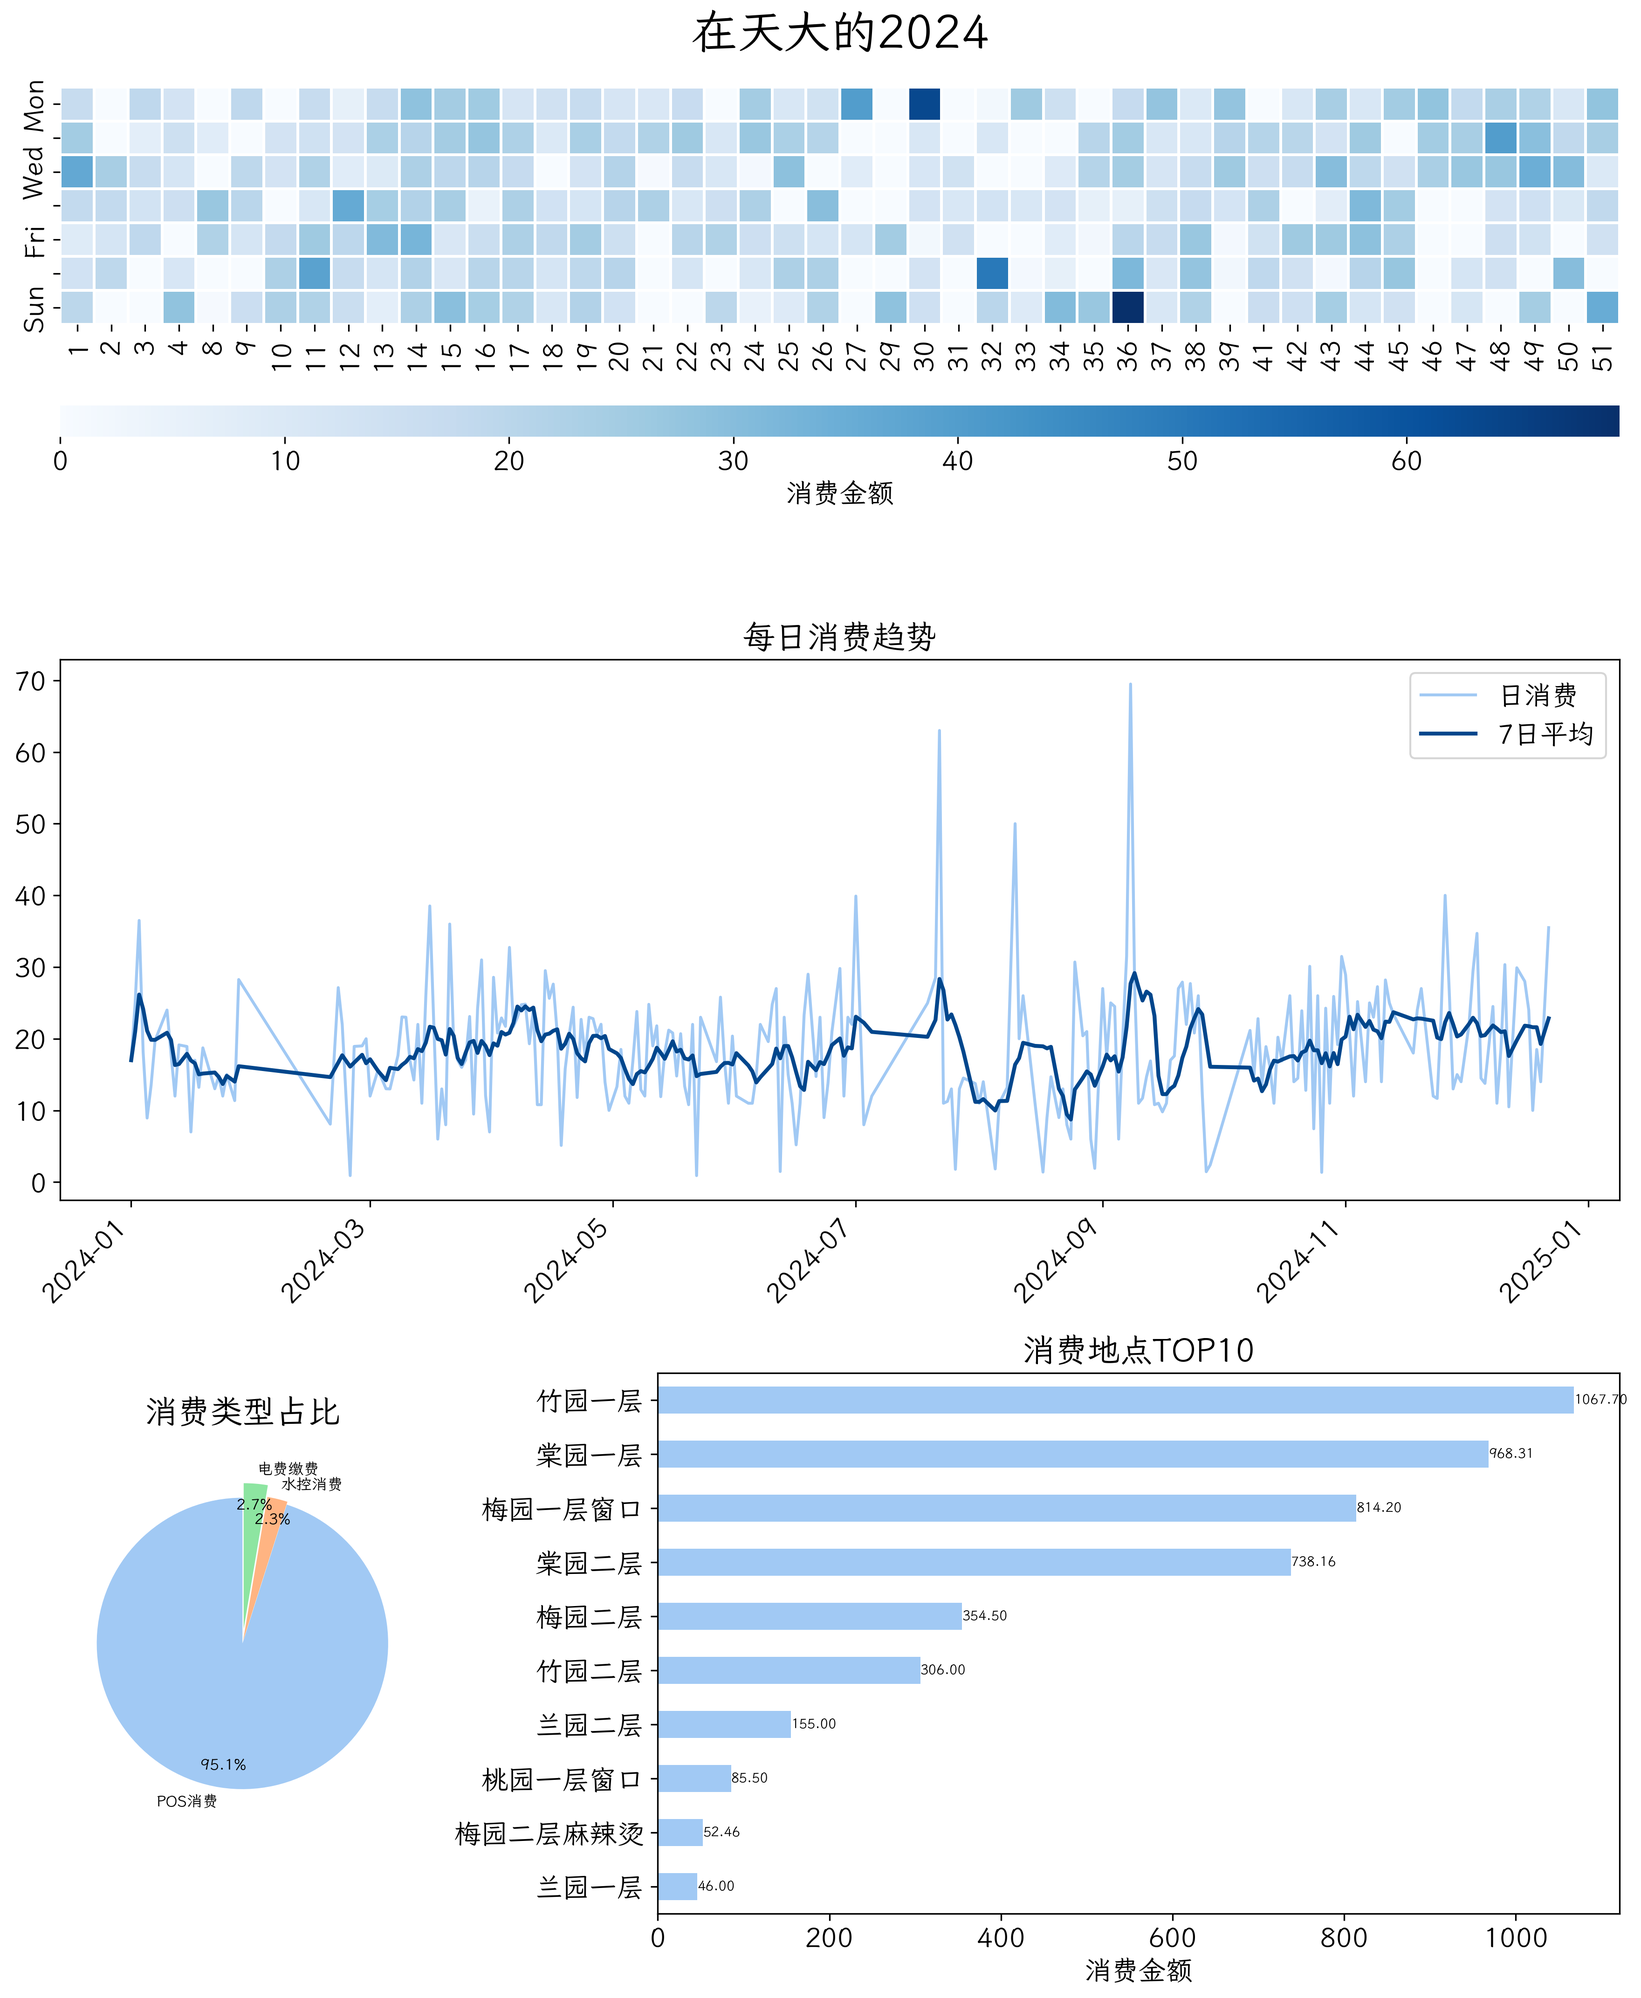
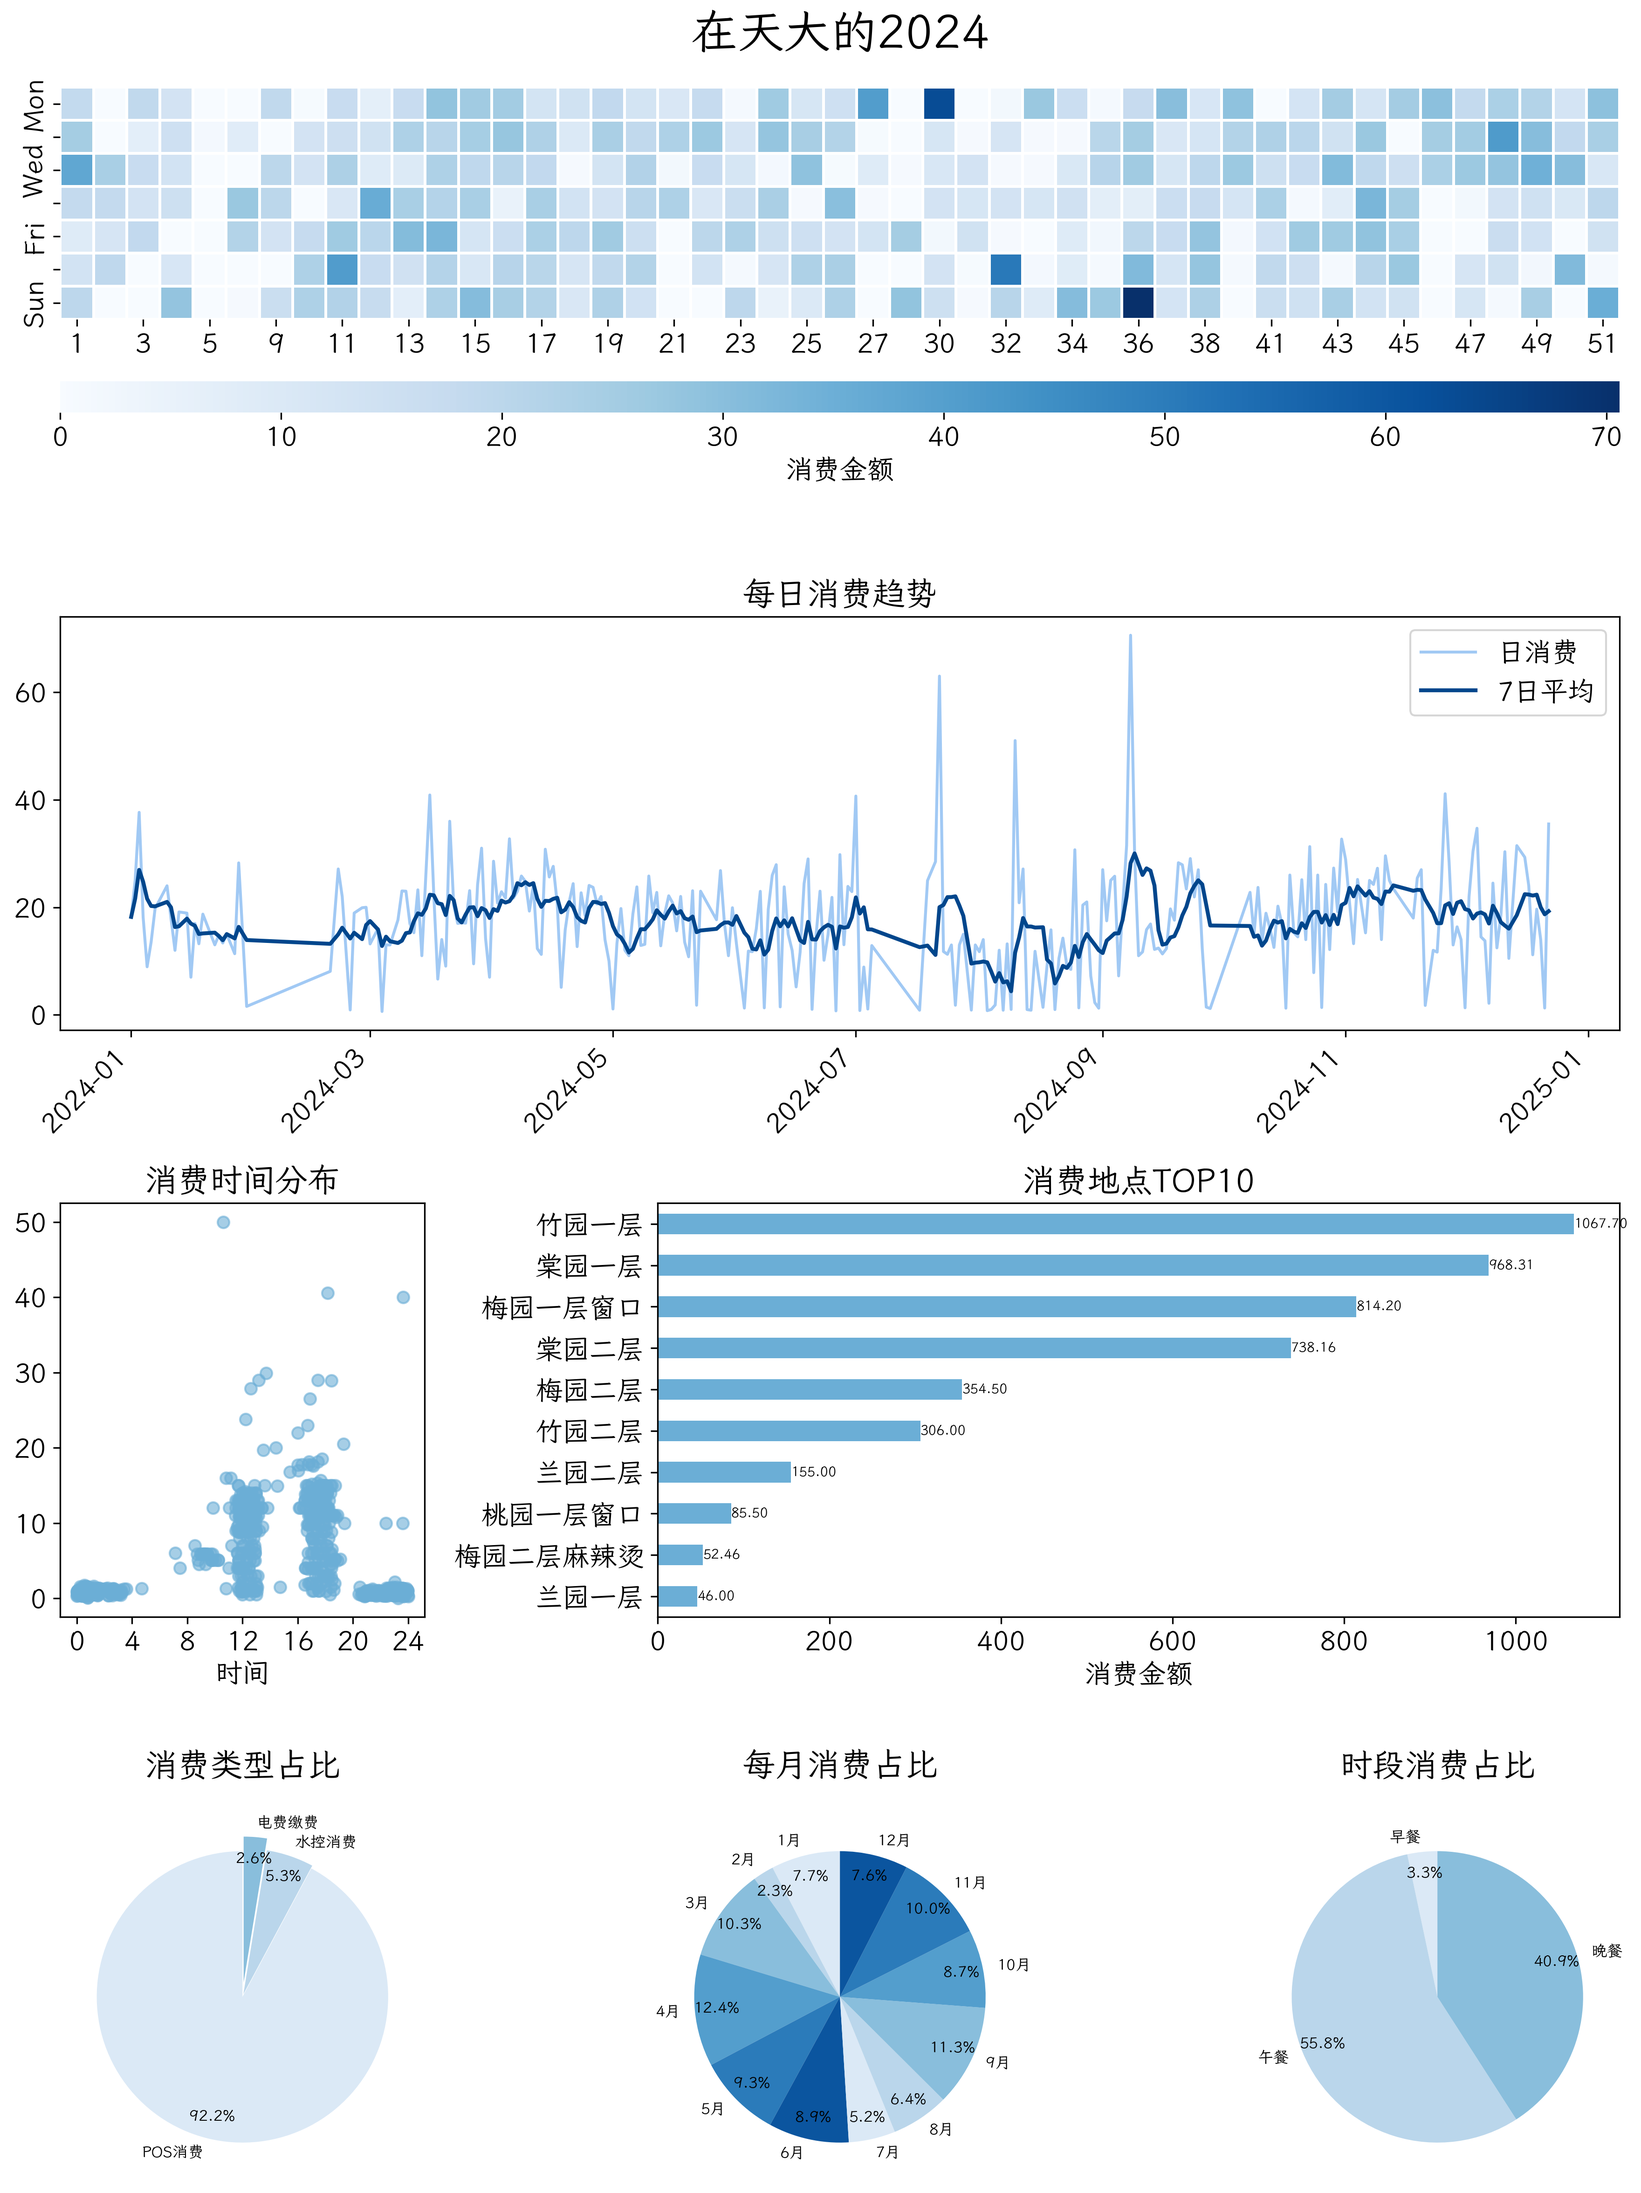
feat: new layout

diff --git a/src/tju_expense/analyze.py b/src/tju_expense/analyze.py
@@ -29,9 +29,9 @@ def analyze(df_file, title, save_to):
     plt.rcParams['axes.unicode_minus'] = False    # 用来正常显示负号
     plt.rcParams['font.size'] = 14  # 设置全局字体大小为14（可以根据需要调整）
 
-    # 创建纵向图表布局 (3行2列的网格，但热力图和趋势图分别占一整行)
-    fig = plt.figure(figsize=(12, 15))
-    gs = plt.GridSpec(3, 3)
+    # 创建纵向图表布局
+    fig = plt.figure(figsize=(12, 16))
+    gs = plt.GridSpec(4, 3, figure=fig) # 必须要加 figure=fig
 
     # 1. 消费热力图 (第一行，跨越所有列)
     ax1 = fig.add_subplot(gs[0, :])
@@ -41,13 +41,25 @@ def analyze(df_file, title, save_to):
     ax2 = fig.add_subplot(gs[1, :])
     plot_daily_trend(df, ax2)
 
-    # 3. 消费类型饼图 (第三行，第一列)
+    # 3. 绘制每日消费散点图 (第三行，第一列)
     ax3 = fig.add_subplot(gs[2, 0])
-    plot_type_pie_chart(df, ax3)
+    plot_daily_scatter(df, ax3)
 
     # 4. 消费地点统计 (第三行，第二列)
     ax4 = fig.add_subplot(gs[2, 1:])
     plot_place_statistics(df, ax4)
+
+    # 5. 消费类型饼图 (第四行，第一列)
+    ax5 = fig.add_subplot(gs[3, 0])
+    plot_type_pie_chart(df, ax5)
+
+    # 6. 每月消费统计饼图 (第四行，第二列)
+    ax6 = fig.add_subplot(gs[3, 1])
+    plot_monthly_pie_chart(df, ax6)
+
+    # 7. 时段消费统计饼图 (第四行，第三列)
+    ax7 = fig.add_subplot(gs[3, 2])
+    plot_time_slot_pie_chart(df, ax7)
 
     plt.tight_layout()
     plt.savefig(save_to, dpi=300, bbox_inches='tight')
@@ -115,6 +127,43 @@ def plot_daily_trend(df, ax):
     # 旋转x轴日期标签
     plt.setp(ax.get_xticklabels(), rotation=45, ha='right')
 
+def plot_daily_scatter(df, ax):
+    """绘制每日消费散点图"""
+    ax.scatter(df['time'].dt.hour + df['time'].dt.minute / 60, df['amount'], color='#6baed6', alpha=0.6)  # 修改为时间（0:00-24:00）
+
+    # 设置x轴刻度
+    ax.set_xticks([0, 4, 8, 12, 16, 20, 24])  # 设置x轴刻度为0, 4, 8, 12, 16, 20, 24
+    ax.set_xticklabels(['0', '4', '8', '12', '16', '20', '24'])  # 设置x轴标签
+
+    # 设置标签
+    ax.set_title('消费时间分布')
+    ax.set_xlabel('时间')
+    ax.set_ylabel('')
+
+def plot_place_statistics(df, ax):
+    """绘制消费地点统计柱状图"""
+    df = df[~df['type'].str.contains('水|电', na=False)]
+
+    # 统计每个地点的消费总额并取前10
+    place_stats = df.groupby('place')['amount'].sum()
+    place_stats = place_stats.nlargest(10).sort_values(ascending=True)
+
+    # 绘制横向柱状图
+    bars = place_stats.plot(
+        kind='barh',
+        ax=ax,
+        color='#6baed6'
+    )
+
+    # 设置标签
+    ax.set_title('消费地点TOP10')
+    ax.set_xlabel('消费金额')
+    ax.set_ylabel('')
+
+    # 在柱状图上添加数值标签
+    for i, v in enumerate(place_stats):
+        ax.text(v, i, f'{v:.2f}', va='center', fontsize=7)
+
 def plot_type_pie_chart(df, ax):
     """绘制消费类型饼图"""
     # 统计每种类型的消费总额
@@ -136,7 +185,7 @@ def plot_type_pie_chart(df, ax):
         startangle=90,
         pctdistance=0.85,
         explode=explode,
-        colors=sns.color_palette("pastel")
+        colors=sns.color_palette("Blues")
     )
 
     # 设置标题和样式
@@ -144,29 +193,54 @@ def plot_type_pie_chart(df, ax):
     plt.setp(autotexts, size=8, weight="bold")
     plt.setp(texts, size=8)
 
-def plot_place_statistics(df, ax):
-    """绘制消费地点统计柱状图"""
-    df = df[~df['type'].str.contains('水|电', na=False)]
+def plot_monthly_pie_chart(df, ax):
+    """绘制每月消费统计饼图"""
+    # 统计每月消费总额
+    monthly_stats = df.groupby(df['time'].dt.to_period('M'))['amount'].sum()
 
-    # 统计每个地点的消费总额并取前10
-    place_stats = df.groupby('place')['amount'].sum()
-    place_stats = place_stats.nlargest(10).sort_values(ascending=True)
-
-    # 绘制横向柱状图
-    bars = place_stats.plot(
-        kind='barh',
-        ax=ax,
-        color='#a1c9f4'
+    # 绘制饼图
+    wedges, texts, autotexts = ax.pie(
+        monthly_stats,
+        labels=[f"{month.month}月" for month in monthly_stats.index],  # 修改为X月的形式
+        autopct='%1.1f%%',
+        startangle=90,
+        pctdistance=0.85,
+        colors=sns.color_palette("Blues")
     )
 
-    # 设置标签
-    ax.set_title('消费地点TOP10')
-    ax.set_xlabel('消费金额')
-    ax.set_ylabel('')
+    # 设置标题和样式
+    ax.set_title('每月消费占比', pad=20)
+    plt.setp(autotexts, size=8, weight="bold")
+    plt.setp(texts, size=8)
 
-    # 在柱状图上添加数值标签
-    for i, v in enumerate(place_stats):
-        ax.text(v, i, f'{v:.2f}', va='center', fontsize=7)
+def plot_time_slot_pie_chart(df, ax):
+    """绘制时段消费统计饼图"""
+    time_slots = {
+        '早餐': (5, 11),  # 5点到11点
+        '午餐': (11, 17),  # 11点到17点
+        '晚餐': (17, 24)  # 17点到24点
+    }
+
+    time_slot_stats = {}
+    filtered_df = df[~df['type'].str.contains('水|电', na=False)]
+    for slot, (start, end) in time_slots.items():
+        mask = (filtered_df['time'].dt.hour >= start) & (filtered_df['time'].dt.hour < end)
+        time_slot_stats[slot] = filtered_df[mask]['amount'].sum()
+
+    # 绘制饼图
+    wedges, texts, autotexts = ax.pie(
+        time_slot_stats.values(),
+        labels=time_slot_stats.keys(),
+        autopct='%1.1f%%',
+        startangle=90,
+        pctdistance=0.85,
+        colors=sns.color_palette("Blues")
+    )
+
+    # 设置标题和样式
+    ax.set_title('时段消费占比', pad=20)
+    plt.setp(autotexts, size=8, weight="bold")
+    plt.setp(texts, size=8)
 
 def print_statistics(df_file):
     """打印基本统计信息"""
